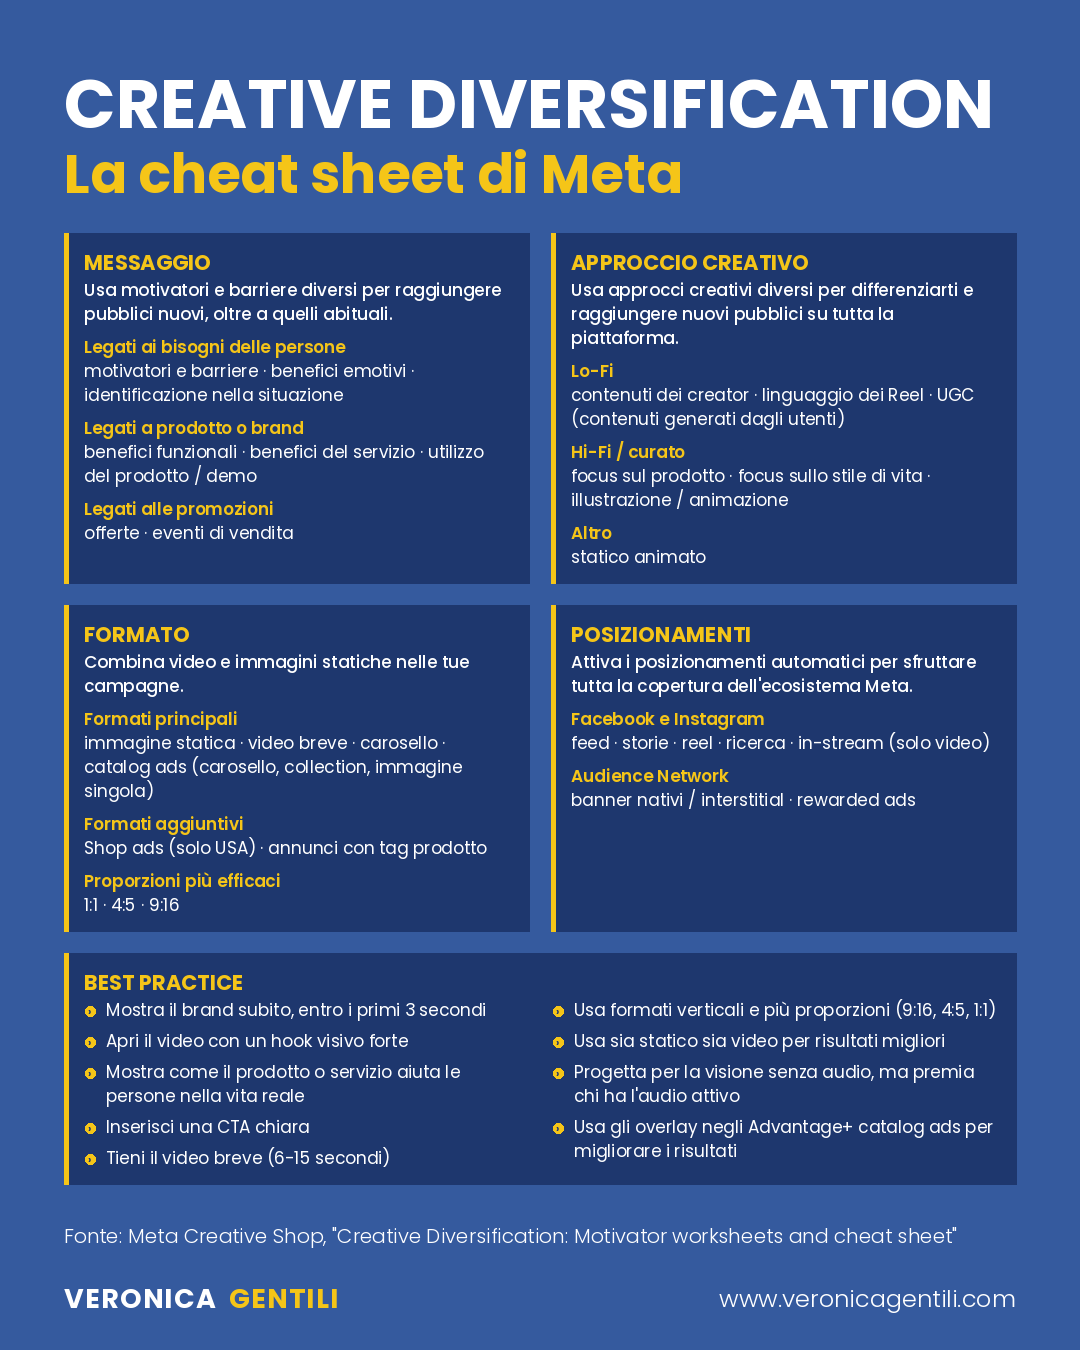
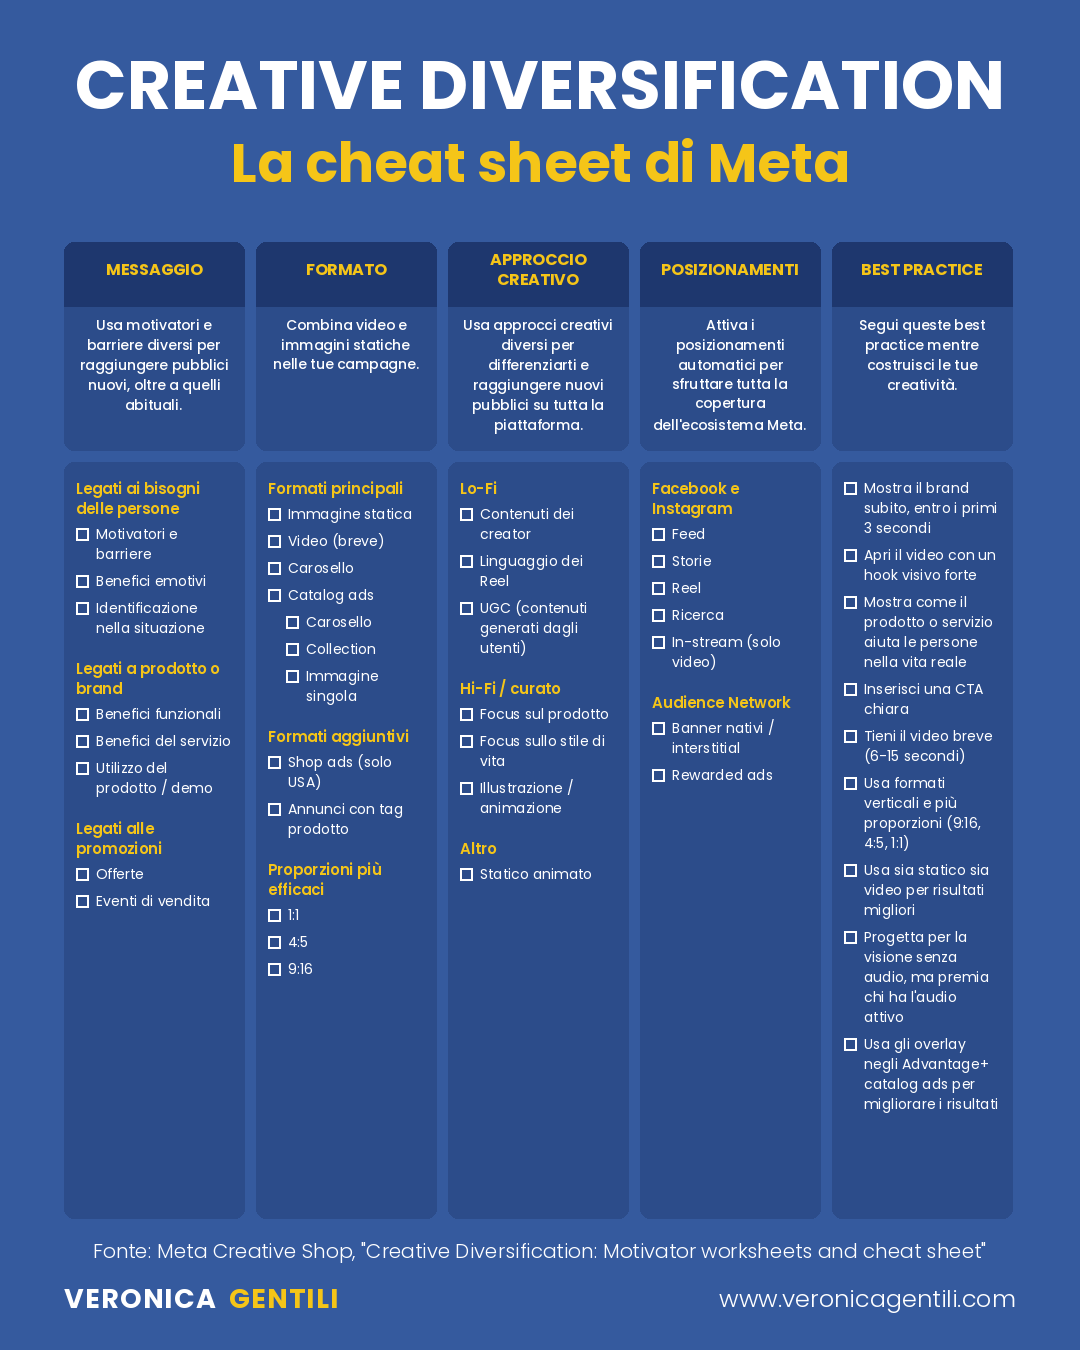
Slide Creative Diversification: layout a 5 colonne come l'originale Meta
Claude-Session: https://claude.ai/code/session_01CgnQvagHSm5GXTzGcK4E6m

diff --git a/infografiche/creative-diversification/genera_slide.py b/infografiche/creative-diversification/genera_slide.py
@@ -1,4 +1,5 @@
-"""Slide brandizzata VG: Creative Diversification Cheat Sheet (Meta Creative Shop, slide 7)."""
+"""Slide brandizzata VG: Creative Diversification Cheat Sheet (Meta Creative Shop, slide 7).
+Layout a 5 colonne come l'originale Meta, palette e font del brand VG."""
 import os
 from PIL import Image, ImageDraw, ImageFont
 
@@ -8,41 +9,42 @@ F_BOLD, F_SEMI, F_MED, F_REG, F_LIGHT = (f"{FONT_DIR}/Poppins-{n}.ttf" for n in
                                          ("Bold", "SemiBold", "Medium", "Regular", "Light"))
 W, H, MARGIN = 1080, 1350, 64
 FOOTER_Y = H - 52
-BLU, BOX, GIALLO, BIANCO = (53, 90, 158), (30, 55, 110), (245, 197, 24), (255, 255, 255)
-GAP = 22
+BLU, BOX, CARD, GIALLO, BIANCO = (53, 90, 158), (30, 55, 110), (44, 76, 138), (245, 197, 24), (255, 255, 255)
+GAP, R = 12, 10
 
 TITOLO = "CREATIVE DIVERSIFICATION"
 SOTTOTITOLO = "La cheat sheet di Meta"
 FONTE = 'Fonte: Meta Creative Shop, "Creative Diversification: Motivator worksheets and cheat sheet"'
 
-SEZIONI = {
- "msg": ("MESSAGGIO", "Usa motivatori e barriere diversi per raggiungere pubblici nuovi, oltre a quelli abituali.", [
-    ("Legati ai bisogni delle persone", ["motivatori e barriere", "benefici emotivi", "identificazione nella situazione"]),
-    ("Legati a prodotto o brand", ["benefici funzionali", "benefici del servizio", "utilizzo del prodotto / demo"]),
-    ("Legati alle promozioni", ["offerte", "eventi di vendita"])]),
- "fmt": ("FORMATO", "Combina video e immagini statiche nelle tue campagne.", [
-    ("Formati principali", ["immagine statica", "video breve", "carosello", "catalog ads (carosello, collection, immagine singola)"]),
-    ("Formati aggiuntivi", ["Shop ads (solo USA)", "annunci con tag prodotto"]),
-    ("Proporzioni più efficaci", ["1:1", "4:5", "9:16"])]),
- "app": ("APPROCCIO CREATIVO", "Usa approcci creativi diversi per differenziarti e raggiungere nuovi pubblici su tutta la piattaforma.", [
-    ("Lo-Fi", ["contenuti dei creator", "linguaggio dei Reel", "UGC (contenuti generati dagli utenti)"]),
-    ("Hi-Fi / curato", ["focus sul prodotto", "focus sullo stile di vita", "illustrazione / animazione"]),
-    ("Altro", ["statico animato"])]),
- "plc": ("POSIZIONAMENTI", "Attiva i posizionamenti automatici per sfruttare tutta la copertura dell'ecosistema Meta.", [
-    ("Facebook e Instagram", ["feed", "storie", "reel", "ricerca", "in-stream (solo video)"]),
-    ("Audience Network", ["banner nativi / interstitial", "rewarded ads"])]),
-}
-BEST = ("BEST PRACTICE", [
-    "Mostra il brand subito, entro i primi 3 secondi",
-    "Apri il video con un hook visivo forte",
-    "Mostra come il prodotto o servizio aiuta le persone nella vita reale",
-    "Inserisci una CTA chiara",
-    "Tieni il video breve (6-15 secondi)",
-    "Usa formati verticali e più proporzioni (9:16, 4:5, 1:1)",
-    "Usa sia statico sia video per risultati migliori",
-    "Progetta per la visione senza audio, ma premia chi ha l'audio attivo",
-    "Usa gli overlay negli Advantage+ catalog ads per migliorare i risultati",
-])
+# (intestazione, descrizione, [(titolo gruppo | None, [(voce, rientro)])])
+COLONNE = [
+ ("MESSAGGIO", "Usa motivatori e barriere diversi per raggiungere pubblici nuovi, oltre a quelli abituali.", [
+   ("Legati ai bisogni delle persone", [("Motivatori e barriere", 0), ("Benefici emotivi", 0), ("Identificazione nella situazione", 0)]),
+   ("Legati a prodotto o brand", [("Benefici funzionali", 0), ("Benefici del servizio", 0), ("Utilizzo del prodotto / demo", 0)]),
+   ("Legati alle promozioni", [("Offerte", 0), ("Eventi di vendita", 0)])]),
+ ("FORMATO", "Combina video e immagini statiche nelle tue campagne.", [
+   ("Formati principali", [("Immagine statica", 0), ("Video (breve)", 0), ("Carosello", 0), ("Catalog ads", 0),
+                           ("Carosello", 1), ("Collection", 1), ("Immagine singola", 1)]),
+   ("Formati aggiuntivi", [("Shop ads (solo USA)", 0), ("Annunci con tag prodotto", 0)]),
+   ("Proporzioni più efficaci", [("1:1", 0), ("4:5", 0), ("9:16", 0)])]),
+ ("APPROCCIO CREATIVO", "Usa approcci creativi diversi per differenziarti e raggiungere nuovi pubblici su tutta la piattaforma.", [
+   ("Lo-Fi", [("Contenuti dei creator", 0), ("Linguaggio dei Reel", 0), ("UGC (contenuti generati dagli utenti)", 0)]),
+   ("Hi-Fi / curato", [("Focus sul prodotto", 0), ("Focus sullo stile di vita", 0), ("Illustrazione / animazione", 0)]),
+   ("Altro", [("Statico animato", 0)])]),
+ ("POSIZIONAMENTI", "Attiva i posizionamenti automatici per sfruttare tutta la copertura dell'ecosistema Meta.", [
+   ("Facebook e Instagram", [("Feed", 0), ("Storie", 0), ("Reel", 0), ("Ricerca", 0), ("In-stream (solo video)", 0)]),
+   ("Audience Network", [("Banner nativi / interstitial", 0), ("Rewarded ads", 0)])]),
+ ("BEST PRACTICE", "Segui queste best practice mentre costruisci le tue creatività.", [
+   (None, [("Mostra il brand subito, entro i primi 3 secondi", 0),
+           ("Apri il video con un hook visivo forte", 0),
+           ("Mostra come il prodotto o servizio aiuta le persone nella vita reale", 0),
+           ("Inserisci una CTA chiara", 0),
+           ("Tieni il video breve (6-15 secondi)", 0),
+           ("Usa formati verticali e più proporzioni (9:16, 4:5, 1:1)", 0),
+           ("Usa sia statico sia video per risultati migliori", 0),
+           ("Progetta per la visione senza audio, ma premia chi ha l'audio attivo", 0),
+           ("Usa gli overlay negli Advantage+ catalog ads per migliorare i risultati", 0)])]),
+]
 
 img = Image.new("RGB", (W, H), BLU)
 d = ImageDraw.Draw(img)
@@ -58,119 +60,82 @@ def wrap(text, f, max_w):
             cur = w
     return lines + ([cur] if cur else [])
 
-PADL, PADT, ACC = 20, 14, 5
+COLW = (W - 2 * MARGIN - 4 * GAP) // 5
+PAD = 12
 
-def sezione(x, y, w, sez, s, draw=True):
-    """Box evidenziato con titolo, descrizione e gruppi. Ritorna l'altezza."""
-    titolo, desc, gruppi = sez
-    ft, fd, fl, fi = F(F_BOLD, s + 4), F(F_MED, s), F(F_SEMI, s), F(F_REG, s)
-    lh = int(s * 1.42); iw = w - PADL - 18
-    ops, cy = [], y + PADT
-    ops.append((x + PADL, cy, titolo, ft, GIALLO)); cy += int((s + 4) * 1.5)
-    for l in wrap(desc, fd, iw): ops.append((x + PADL, cy, l, fd, BIANCO)); cy += lh
-    for label, items in gruppi:
-        cy += int(s * 0.55)
-        ops.append((x + PADL, cy, label, fl, GIALLO)); cy += lh
-        for l in wrap(" · ".join(items), fi, iw): ops.append((x + PADL, cy, l, fi, BIANCO)); cy += lh
-    h = cy - y + PADT
-    if draw:
-        d.rectangle([x, y, x + w, y + h], fill=BOX)
-        d.rectangle([x, y, x + ACC - 1, y + h], fill=GIALLO)
-        for o in ops: d.text(o[:2], o[2], font=o[3], fill=o[4])
-    return h
-
-def best(x, y, w, s, draw=True):
-    titolo, items = BEST
-    ft, fi = F(F_BOLD, s + 4), F(F_REG, s)
-    lh = int(s * 1.42); colw = (w - PADL - 20 - 24) // 2
-    r = max(5, s // 3); tx = PADL + 2 * r + 12
-    cols = [items[:5], items[5:]]
-    top = y + PADT + int((s + 4) * 1.5)
-    hs = []
-    for ci, col in enumerate(cols):
-        cx0 = x + PADL + ci * (colw + 24); cy = top
-        for it in col:
-            ls = wrap(it, fi, colw - tx + PADL)
-            if draw:
-                cyc = cy + lh // 2 + 1
-                d.ellipse([cx0 + 1, cyc - r, cx0 + 1 + 2 * r, cyc + r], fill=GIALLO)
-                for j, l in enumerate(ls): d.text((cx0 + tx - PADL, cy + j * lh), l, font=fi, fill=BIANCO)
-            cy += len(ls) * lh + int(s * 0.45)
-        hs.append(cy)
-    h = max(hs) - y + PADT - int(s * 0.45)
-    if draw:
-        d.rectangle([x, y, x + w, y + h], fill=BOX)
-        d.rectangle([x, y, x + ACC - 1, y + h], fill=GIALLO)
-        d.text((x + PADL, y + PADT), titolo, font=ft, fill=GIALLO)
-        best(x, y, w, s, draw=False) if False else None
-        # ridisegna bullet sopra il box
-        for ci, col in enumerate(cols):
-            cx0 = x + PADL + ci * (colw + 24); cy = top
-            for it in col:
-                ls = wrap(it, fi, colw - tx + PADL); cyc = cy + lh // 2 + 1
-                d.ellipse([cx0 + 1, cyc - r, cx0 + 1 + 2 * r, cyc + r], fill=GIALLO)
-                d.text((cx0 + r + 1, cyc), "›", font=F(F_BOLD, max(10, 2 * r)), fill=BOX, anchor="mm")
-                for j, l in enumerate(ls): d.text((cx0 + tx - PADL, cy + j * lh), l, font=fi, fill=BIANCO)
-                cy += len(ls) * lh + int(s * 0.45)
-    return h
-
-# --- titolo autosize (max 100px, 1 riga) + sottotitolo giallo
+# --- titolo + sottotitolo centrati
 for ts in range(100, 40, -2):
     if d.textlength(TITOLO, font=F(F_BOLD, ts)) <= W - 2 * MARGIN: break
-y = 56
-d.text((MARGIN, y), TITOLO, font=F(F_BOLD, ts), fill=BIANCO); y += int(ts * 1.18)
-d.text((MARGIN, y), SOTTOTITOLO, font=F(F_BOLD, 54), fill=GIALLO); y += int(54 * 1.25) + 30
+y = 60
+d.text((W // 2, y), TITOLO, font=F(F_BOLD, ts), fill=BIANCO, anchor="mt"); y += int(ts * 1.15)
+d.text((W // 2, y), SOTTOTITOLO, font=F(F_BOLD, 54), fill=GIALLO, anchor="mt"); y += int(54 * 1.3) + 34
 
-# --- auto-fit del corpo
 f_fonte = F(F_LIGHT, 20)
-fonte_lines = wrap(FONTE, f_fonte, W - 2 * MARGIN)
-bottom = FOOTER_Y - 48 - len(fonte_lines) * 28 - 18
-colw = (W - 2 * MARGIN - GAP) // 2
-for s in range(26, 14, -1):
-    hl = sezione(0, 0, colw, SEZIONI["msg"], s, False) + GAP + sezione(0, 0, colw, SEZIONI["fmt"], s, False)
-    hr = sezione(0, 0, colw, SEZIONI["app"], s, False) + GAP + sezione(0, 0, colw, SEZIONI["plc"], s, False)
-    hb = best(0, 0, W - 2 * MARGIN, s, False)
-    if y + max(hl, hr) + GAP + hb <= bottom: break
-print("corpo", s, "titolo", ts)
+FONTE_Y = FOOTER_Y - 56
+LIST_BOTTOM = FONTE_Y - 24
 
-xl, xr = MARGIN, MARGIN + colw + GAP
-# allinea le altezze delle due colonne
-h1 = sezione(xl, y, colw, SEZIONI["msg"], s, False); h3 = sezione(xr, y, colw, SEZIONI["app"], s, False)
-top_row = max(h1, h3)
-def box_fixed(x, yy, sez, hmin):
-    h = sezione(x, yy, colw, sez, s, False)
-    d.rectangle([x, yy, x + colw, yy + hmin], fill=BOX); d.rectangle([x, yy, x + ACC - 1, yy + hmin], fill=GIALLO)
-    # disegna il contenuto senza ridisegnare il box
-    titolo, desc, gruppi = sez
-    sezione_contenuto(x, yy, sez)
-def sezione_contenuto(x, yy, sez):
-    titolo, desc, gruppi = sez
-    ft, fd, fl, fi = F(F_BOLD, s + 4), F(F_MED, s), F(F_SEMI, s), F(F_REG, s)
-    lh = int(s * 1.42); iw = colw - PADL - 18; cy = yy + PADT
-    d.text((x + PADL, cy), titolo, font=ft, fill=GIALLO); cy += int((s + 4) * 1.5)
-    for l in wrap(desc, fd, iw): d.text((x + PADL, cy), l, font=fd, fill=BIANCO); cy += lh
-    for label, items in gruppi:
-        cy += int(s * 0.55); d.text((x + PADL, cy), label, font=fl, fill=GIALLO); cy += lh
-        for l in wrap(" · ".join(items), fi, iw): d.text((x + PADL, cy), l, font=fi, fill=BIANCO); cy += lh
+def misura(s):
+    """Altezze di header, descrizione e lista per corpo s."""
+    fh, fd, fg, fi = F(F_BOLD, s + 1), F(F_MED, s - 1), F(F_SEMI, s), F(F_REG, s - 1)
+    lh = int(s * 1.38); iw = COLW - 2 * PAD
+    hh = max(len(wrap(c[0], fh, iw)) for c in COLONNE) * lh + 2 * PAD
+    hd = max(len(wrap(c[1], fd, iw)) for c in COLONNE) * lh + 2 * PAD
+    hl = 0
+    for _, _, gruppi in COLONNE:
+        h = PAD
+        for g, voci in gruppi:
+            if g: h += len(wrap(g, fg, iw)) * lh + 6
+            for v, ind in voci:
+                h += len(wrap(v, fi, iw - (s + 8) - ind * 18)) * lh + 7
+            h += int(s * 0.9)
+        hl = max(hl, h)
+    return hh, hd, hl
 
-h2 = sezione(xl, 0, colw, SEZIONI["fmt"], s, False); h4 = sezione(xr, 0, colw, SEZIONI["plc"], s, False)
-bot_row = max(h2, h4)
-box_fixed(xl, y, SEZIONI["msg"], top_row); box_fixed(xr, y, SEZIONI["app"], top_row)
-y2 = y + top_row + GAP
-box_fixed(xl, y2, SEZIONI["fmt"], bot_row); box_fixed(xr, y2, SEZIONI["plc"], bot_row)
-y3 = y2 + bot_row + GAP
-best(MARGIN, y3, W - 2 * MARGIN, s)
+for s in range(24, 12, -1):
+    hh, hd, hl = misura(s)
+    if y + hh + hd + GAP + hl <= LIST_BOTTOM: break
+print("corpo", s)
+
+fh, fd, fg, fi = F(F_BOLD, s + 1), F(F_MED, s - 1), F(F_SEMI, s), F(F_REG, s - 1)
+lh = int(s * 1.38); iw = COLW - 2 * PAD
+box = s - 3  # lato checkbox
+
+for i, (head, desc, gruppi) in enumerate(COLONNE):
+    x = MARGIN + i * (COLW + GAP)
+    # header scuro con testo giallo + card descrizione (un unico blocco come in Meta)
+    d.rounded_rectangle([x, y, x + COLW, y + hh + hd], R, fill=CARD)
+    d.rounded_rectangle([x, y, x + COLW, y + hh], R, fill=BOX, corners=(True, True, False, False))
+    hl_ = wrap(head, fh, iw)
+    ty = y + (hh - len(hl_) * lh) // 2
+    for l in hl_: d.text((x + COLW // 2, ty), l, font=fh, fill=GIALLO, anchor="mt"); ty += lh
+    ty = y + hh + PAD
+    for l in wrap(desc, fd, iw): d.text((x + COLW // 2, ty), l, font=fd, fill=BIANCO, anchor="mt"); ty += lh
+    # card lista
+    ly = y + hh + hd + GAP
+    d.rounded_rectangle([x, ly, x + COLW, LIST_BOTTOM], R, fill=CARD)
+    cy = ly + PAD + 4
+    for g, voci in gruppi:
+        if g:
+            for l in wrap(g, fg, iw): d.text((x + PAD, cy), l, font=fg, fill=GIALLO); cy += lh
+            cy += 6
+        for v, ind in voci:
+            bx = x + PAD + ind * 18
+            tx = bx + box + 8
+            ls = wrap(v, fi, x + COLW - PAD - tx)
+            by = cy + (lh - box) // 2
+            d.rectangle([bx, by, bx + box, by + box], outline=BIANCO, width=2)
+            for l in ls: d.text((tx, cy), l, font=fi, fill=BIANCO); cy += lh
+            cy += 7
+        cy += int(s * 0.9)
 
 # --- fonte
-fy = FOOTER_Y - 48 - len(fonte_lines) * 28
-for i, l in enumerate(fonte_lines): d.text((MARGIN, fy + i * 28), l, font=f_fonte, fill=BIANCO)
+d.text((W // 2, FONTE_Y), FONTE, font=f_fonte, fill=BIANCO, anchor="mt")
 
 # --- footer: logotipo + url
-fl = F(F_BOLD, 27)
-x = MARGIN
+flg = F(F_BOLD, 27); x = MARGIN
 for word, col in (("VERONICA", BIANCO), ("GENTILI", GIALLO)):
     for ch in word:
-        d.text((x, FOOTER_Y), ch, font=fl, fill=col, anchor="lm"); x += d.textlength(ch, font=fl) + 1.4
+        d.text((x, FOOTER_Y), ch, font=flg, fill=col, anchor="lm"); x += d.textlength(ch, font=flg) + 1.4
     x += 12
 d.text((W - MARGIN, FOOTER_Y), "www.veronicagentili.com", font=F(F_LIGHT, 24), fill=BIANCO, anchor="rm")
 
